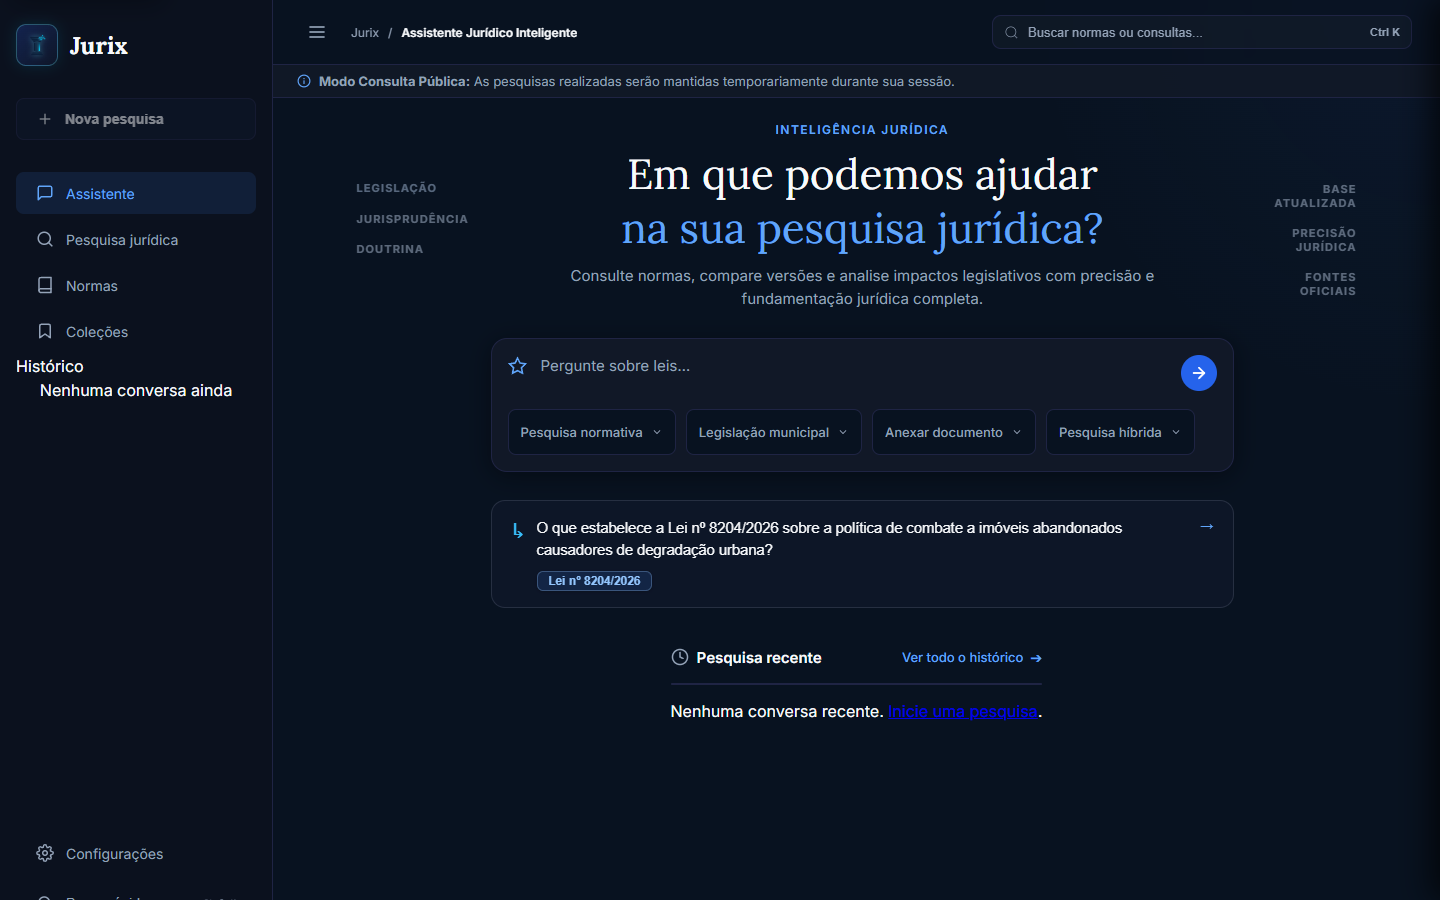
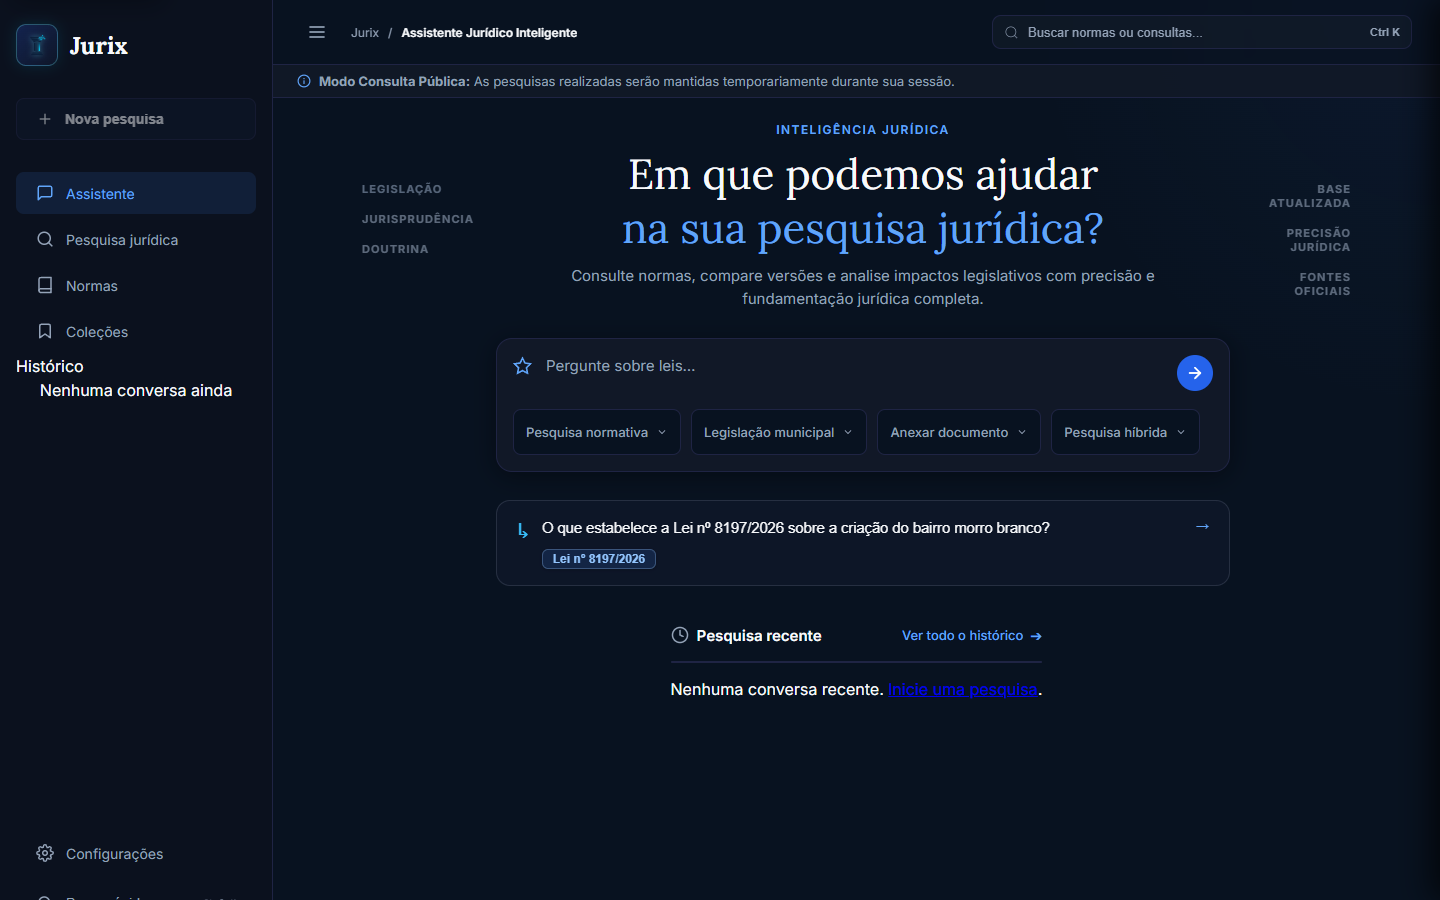
ui(shell): prioritize command palette title matches

diff --git a/src/apps/core/static/js/command_palette.js b/src/apps/core/static/js/command_palette.js
@@ -211,7 +211,18 @@
             (cmd) =>
                 (cmd.title || '').toLowerCase().includes(queryLower) ||
                 (cmd.description || '').toLowerCase().includes(queryLower)
-        );
+        ).sort((left, right) => {
+            const score = (command) => {
+                const title = (command.title || '').toLocaleLowerCase('pt-BR');
+                const description = (command.description || '').toLocaleLowerCase('pt-BR');
+                if (title === queryLower) return 0;
+                if (title.startsWith(queryLower)) return 1;
+                if (title.includes(queryLower)) return 2;
+                if (description.includes(queryLower)) return 3;
+                return 4;
+            };
+            return score(left) - score(right);
+        });
 
         if (filtered.length === 0) {
             resultsContainer.innerHTML = `

diff --git a/src/apps/legislation/templates/legislation/chatbot.html b/src/apps/legislation/templates/legislation/chatbot.html
@@ -384,7 +384,7 @@
     <script src="{% static 'js/jurix-dynamic-suggestions.js' %}"></script>
     <script src="{% static 'js/chat.js' %}?v=20260929-chat-alert-live1"></script>
     <script src="{% static 'js/jurix-chat-controller.js' %}"></script>
-    <script src="{% static 'js/command_palette.js' %}?v=20260929-combobox-a11y"></script>
+    <script src="{% static 'js/command_palette.js' %}?v=20260929-title-priority"></script>
 
     <!-- Synchronizer for Floating Bar and Hero Search State (floating-bar-sync.js; CSP: no inline script) -->
     <script src="{% static 'js/floating-bar-sync.js' %}"></script>

diff --git a/src/apps/legislation/templates/legislation/workspace/base.html b/src/apps/legislation/templates/legislation/workspace/base.html
@@ -87,7 +87,7 @@
 
     <script src="{% static 'js/config.js' %}"></script>
     <script src="{% static 'js/workspace.js' %}?v=20260929-settings-default-model1"></script>
-    <script src="{% static 'js/command_palette.js' %}?v=20260929-combobox-a11y"></script>
+    <script src="{% static 'js/command_palette.js' %}?v=20260929-title-priority"></script>
     <script src="{% static 'js/jurix-anonymous-history.js' %}"></script>
     {% block extra_js %}{% endblock %}
 </body>

diff --git a/FRONTEND_LOG.md b/FRONTEND_LOG.md
@@ -2514,3 +2514,48 @@ Regressions: None observed.
 Next action: Continue the final interactive pass over empty/error recovery,
 focus order, and mobile actions; keep backend/search-ranking limitations
 separate from frontend defects.
+
+## Cycle 62 — 2026-09-29
+
+Area: Command palette relevance and keyboard recovery.
+
+Goal: Make the quick-navigation palette select the most likely destination
+when a term matches both a destination title and another item's description.
+
+Observed problems: Typing “normas” put “Pesquisa Jurídica” first because its
+description mentioned normas and the palette used declaration order. “Normas
+Consolidadas” matched the title but was only the second option, so Enter could
+navigate to the wrong workspace.
+
+Changes made: Palette search now ranks exact title, title prefix, title
+substring, then description match while preserving prior order within equal
+scores. Added structural and Chromium assertions for the initial selected
+result, updated both workspace/chat cache-busted URLs, and taught the visual
+capture to preserve a searchable “normas” palette state at desktop and mobile
+sizes.
+
+Browser validation: On the live `/normas/` page, opened the palette, typed
+“normas”, and confirmed “Normas Consolidadas” became the selected first
+result. Pressed Escape and verified focus returned to the original
+`command-palette-trigger` button.
+
+Tests: The full `npm test` suite passed, including 21 real Chromium scenarios,
+26 norm/UI contracts, streaming/persistence and security checks. The focused
+Chromium file verifies palette ranking, compact SVG icons, focus containment,
+Escape and focus restoration. Visual capture completed 36 views (12 routes ×
+3 viewports) with zero views flagged for review.
+
+Console: No new errors in the live palette interaction or browser tests.
+
+Responsive validation: Capture includes 390×844 in addition to 1280×800 and
+1440×900; prior real-browser tests verify the palette remains within mobile
+gutters and SVG icons remain bounded.
+
+Visual score: Quick navigation now resolves obvious title matches ahead of
+incidental descriptive matches, reducing accidental navigation without
+changing the palette layout or adding dependencies.
+
+Regressions: None observed.
+
+Next action: Continue keyboard and mobile checks across the remaining primary
+routes and address the next reproducible frontend defect.
